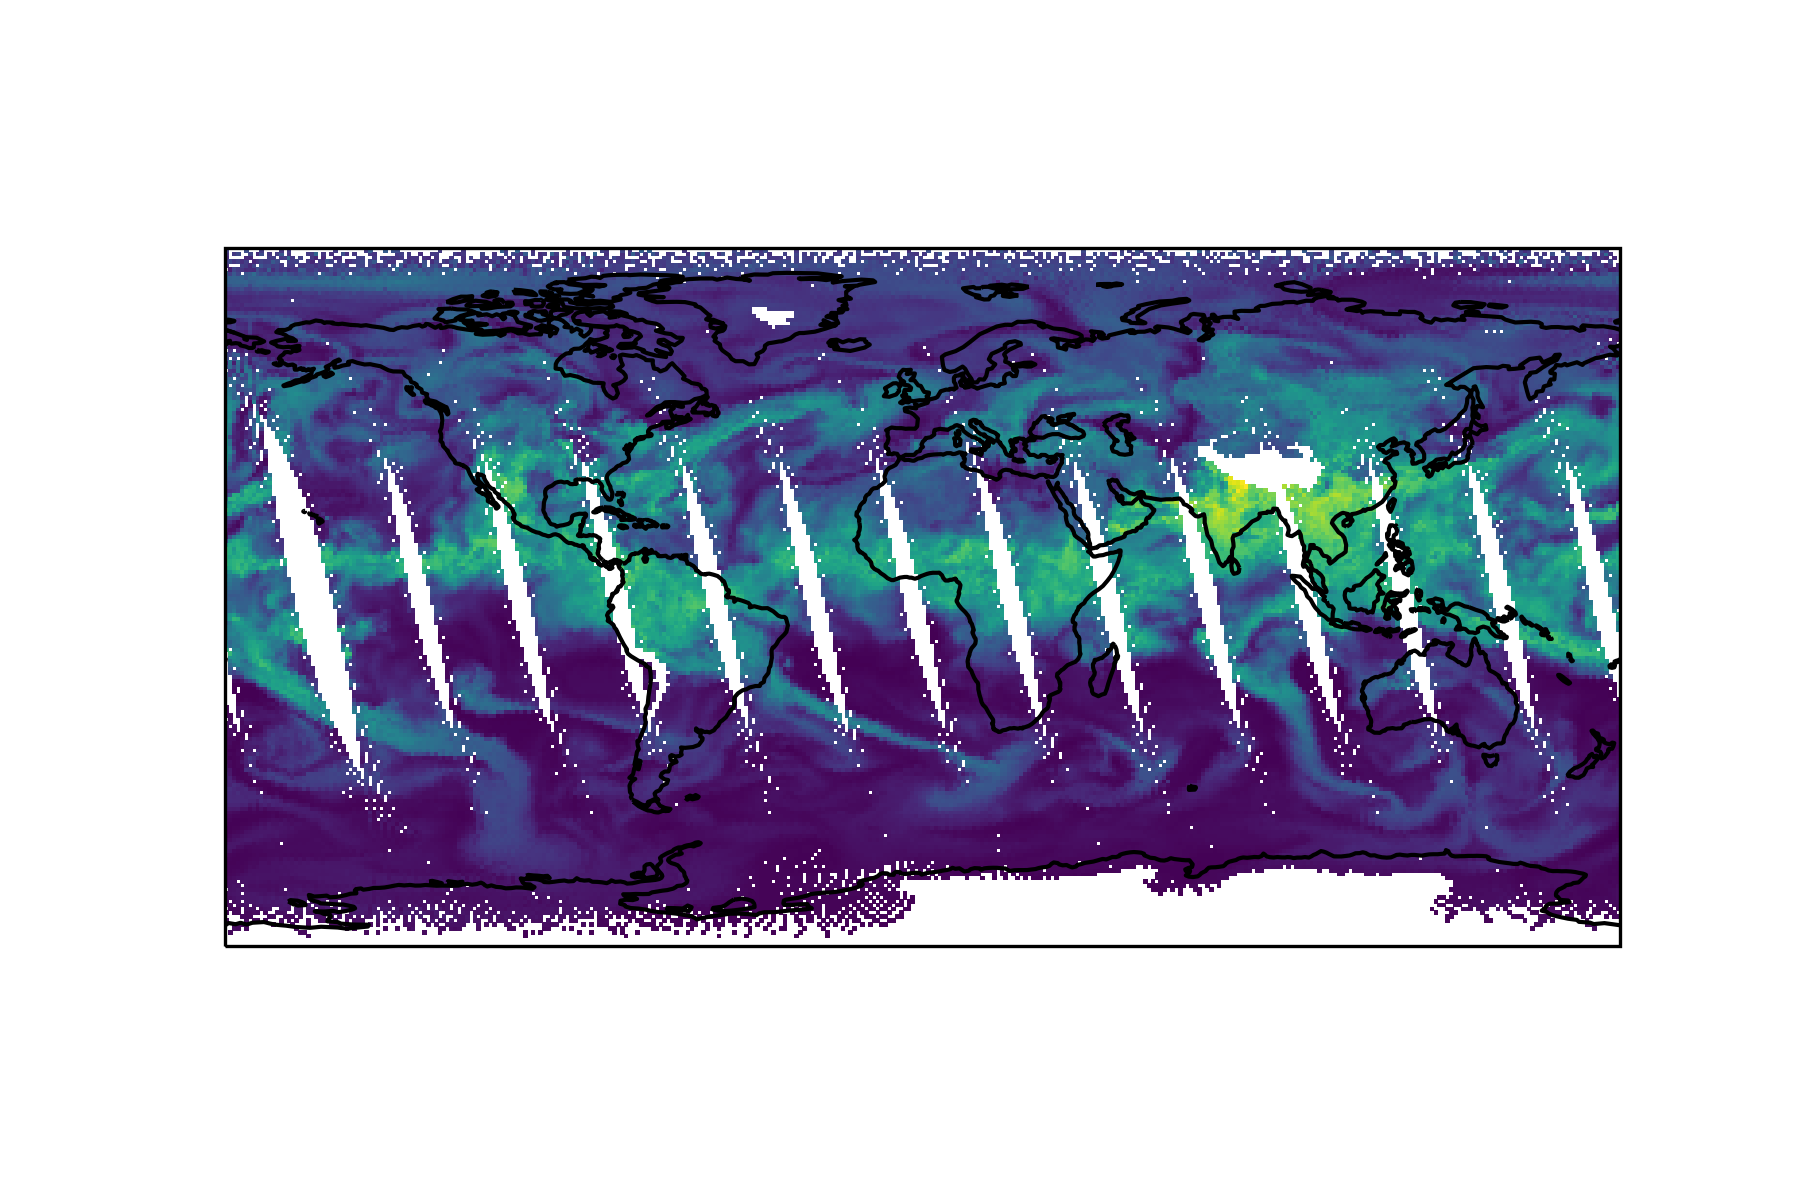
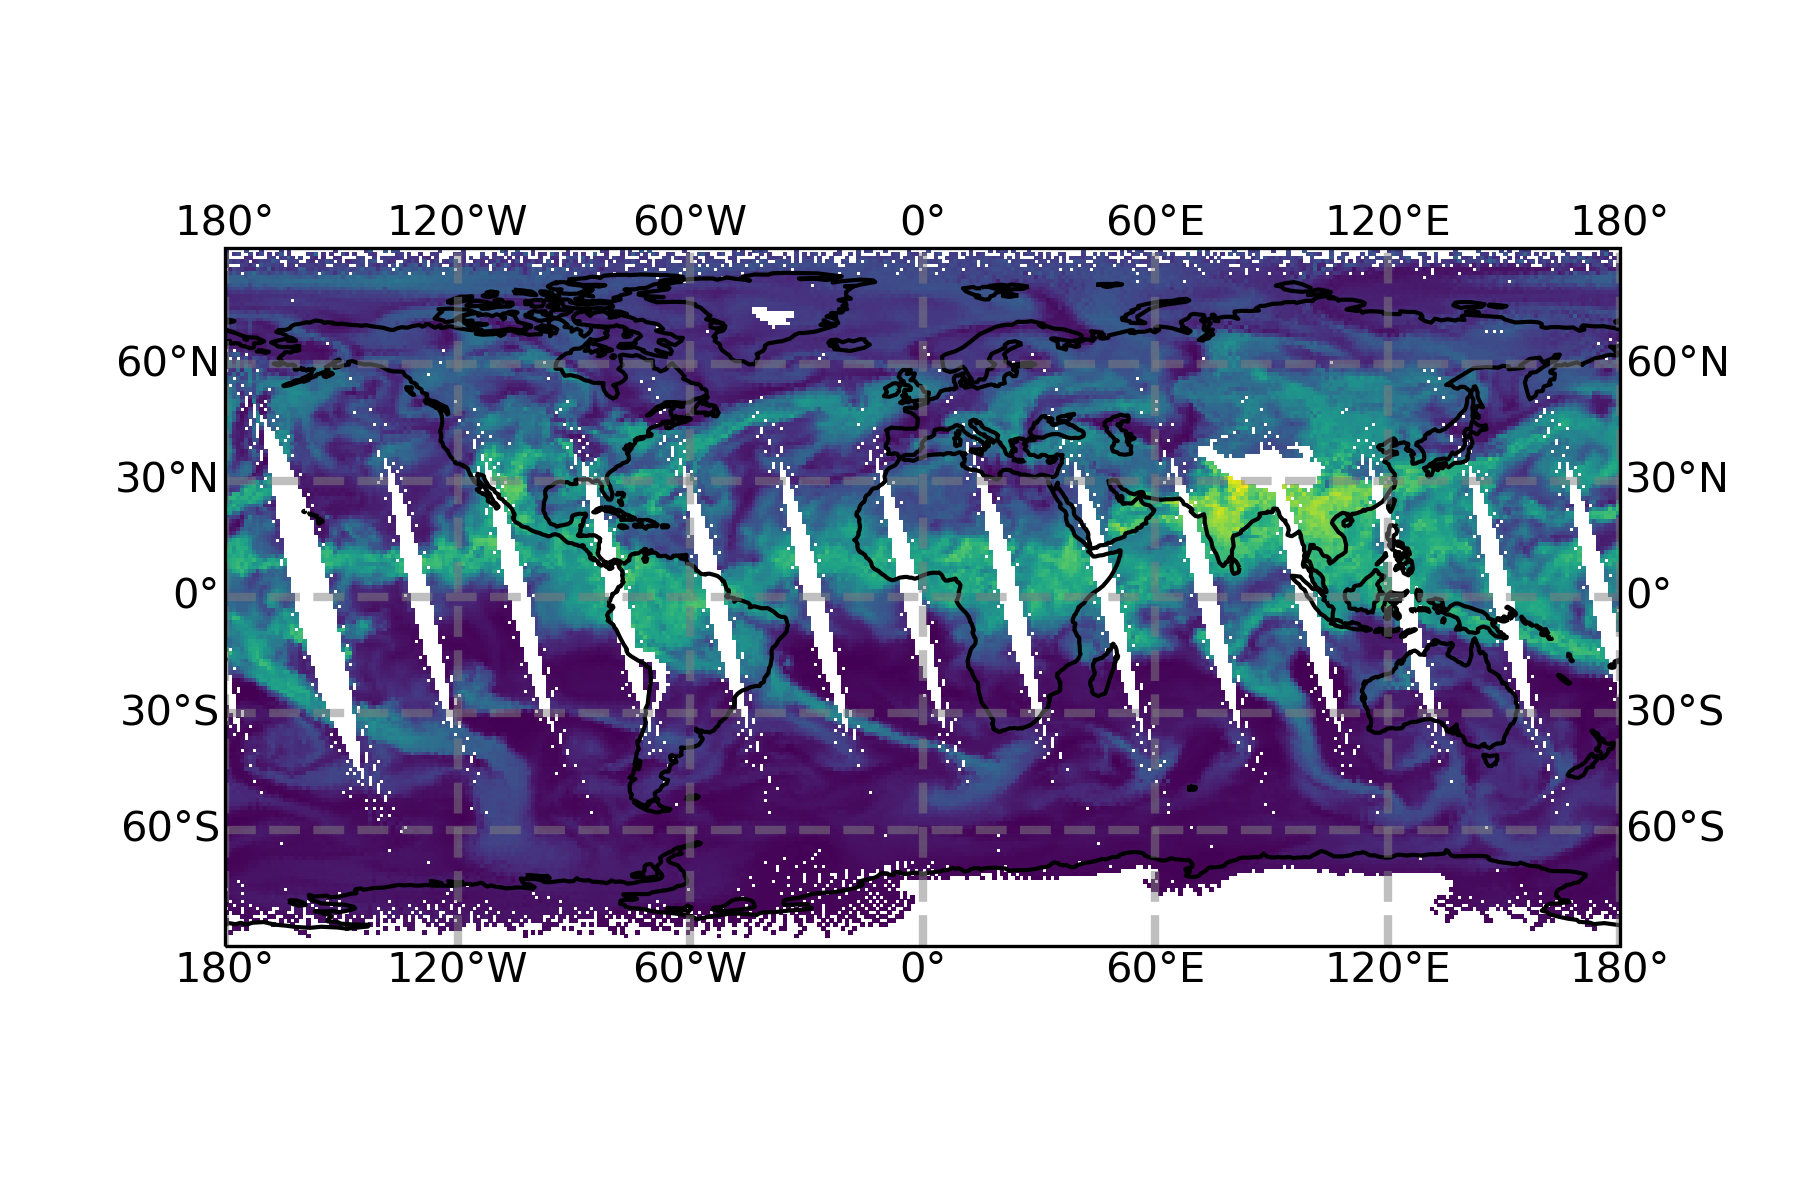
created pipeline

diff --git a/src/first_stage_amv.py b/src/first_stage_amv.py
@@ -8,25 +8,13 @@ Created on Wed Mar 24 15:17:31 2021
 import cv2
 import xarray as xr
 import numpy as np
-label='specific_humidity_mu'
-def wind_calculator(ds):
-    flow_x=np.squeeze(ds['flow_x'].values)
-    flow_y=np.squeeze(ds['flow_y'].values)
-    lon,lat=np.meshgrid(ds['lon'].values,ds['lat'].values)
-    dthetax = GRID*flow_x
-    dradsx = dthetax * np.pi / 180
-    lat = lat*np.pi/180
-    dx = R*abs(np.cos(lat))*dradsx
-    u= dx/1800
-    
-    dthetay =GRID*flow_y
-    dradsy = dthetay * np.pi / 180
-    dy = R*dradsy
-    v= dy/1800
-    
-    ds['u']=(('time','lat','lon'),np.expand_dims(u,axis=0))
-    ds['v']=(('time','lat','lon'),np.expand_dims(v,axis=0))
-    return ds
+import metpy.calc as mpcalc
+from metpy.units import units
+R = 6371000
+dt_inv=1/3600
+
+label='specific_humidity_mean'
+
 
 
 def calc(frame0, frame):
@@ -46,26 +34,57 @@ def frame_retreiver(ds, satellite):
     frame[frame == 0] = np.nan
     return frame
     
- 
+def ds_unit_calc(ds, day,pressure, time):
+    ds_unit=ds.loc[{'day':day ,'plev':pressure,'time':time}]
+    frame0=frame_retreiver(ds_unit,'snpp')
+    frame=frame_retreiver(ds_unit, 'j1')
+    flowx,flowy=calc(frame0, frame)
+    ds_unit['flowx']=(['latitude','longitude'],flowx)
+    ds_unit['flowy']=(['latitude','longitude'],flowy)
+    ds_unit['u']=ds_unit['flowx']*ds_unit['g_factor_x']
+    ds_unit['v']=ds_unit['flowy']*ds_unit['g_factor_y']
+    return ds_unit
 def main():
-    ds=xr.open_dataset('../data/processed/real_water_vapor_inpainted.nc')
-    ds=ds.loc[{'lat':slice(-50,50)}].copy()
+    ds=xr.open_dataset('../data/processed/real_water_vapor_noqc_inpainted.nc')
+    drad = np.deg2rad(1)
+    dx = R*abs(np.cos(np.deg2rad(ds.latitude)))*drad
+    scale_x = dx*dt_inv
+    dy = R*drad
+    scale_y = dy*dt_inv
+    ds['g_factor_x']=  scale_x 
+    ds['g_factor_y']=  scale_y 
+    
     print(ds)
+    ds_total=xr.Dataset()
     for day in ds['day'].values:
         print(day)
-        for pressure in ds['pressure'].values:
-            print(pressure)
+ 
+        ds_unit=xr.Dataset()
+        for pressure in ds['plev'].values:
+            ds_unit1=xr.Dataset()
             for time in ds['time'].values:
-                ds_unit=ds.loc[{'day':day ,'pressure':pressure,'time':time}]
-                frame0=frame_retreiver(ds_unit,'snpp')
-                frame=frame_retreiver(ds_unit, 'j1')
-                flowx,flowy=calc(frame0, frame)
-                breakpoint()
-                ds_unit['flowx']=flowx
+                
+                ds_unit0=ds_unit_calc(ds, day,pressure, time)
+                ds_unit0 = ds_unit0.expand_dims('day').assign_coords(day=np.array([day]))
+                ds_unit0 = ds_unit0.expand_dims('time').assign_coords(time=np.array([time]))
+                ds_unit0 = ds_unit0.expand_dims('plev').assign_coords(plev=np.array([pressure]))
+                
+                if not ds_unit1:
+                    ds_unit1=ds_unit0
+                else:
+                    ds_unit1=xr.concat([ds_unit1,ds_unit0],'time')
+            if not ds_unit:
+                ds_unit=ds_unit1
+            else:
+                ds_unit=xr.concat([ds_unit,ds_unit1], 'plev') 
+        if not ds_total:
+            ds_total=ds_unit
+        else:
+            ds_total=xr.concat([ds_total,ds_unit], 'day')
+    print(ds_total)
         
-                #ds[label].loc[{'day':day ,'pressure':pressure,
-                 #            'satellite':satellite,'time':time}]=frame
-    #ds.to_netcdf('../data/processed/real_water_vapor_amvs.nc')
+        
+    ds_total.to_netcdf('../data/processed/real_water_vapor_noqc_amvs.nc')
 
 if __name__ == '__main__':
     main()

diff --git a/src/formatter.py b/src/formatter.py
@@ -48,27 +48,24 @@ def ds_unit_calc(day,time,satellite):
     
     ds=xr.open_dataset(PATH+ 'climcaps_'+ day_string+'_'+time+'_'+satellite+'_gridded_specific_humidity_1deg_noqc.nc')
     
-    ds=regridder(ds)   
+    #ds=regridder(ds)   
     
-    
-   # ds['Lat']=ds['Lat']+ds['latitude'].min()
-   # ds['Lat']=ds['Lat'].astype(np.float32)
-   # ds['Lon']=ds['Lon']+ds['longitude'].min()
-   # ds['Lon']=ds['Lon'].astype(np.float32)
+    df=ds.to_dataframe()
+    df=df.reset_index()
+    df=df.set_index(['latitude','longitude','plev'])
+    ds=xr.Dataset.from_dataframe(df)   
+    ds=ds.reindex(latitude=list(reversed(ds.latitude)))
     ds['plev']=np.around(np.sort(np.unique(ds['pressure'].values)),decimals=1)
-    #ds=ds.drop('lat')
-    #ds=ds.drop('lon')
+    ds=ds.drop('Lat')
+    ds=ds.drop('Lon')
     ds=ds.drop('pressure')
-    #dts=ds['obs_time'].values
-    
-    #mask=np.isnan(dts)
-    #dts=np.nan_to_num(dts)
-    #helper = np.vectorize(lambda x: d0 + timedelta(seconds=x))
-    #dt_sec=helper(dts)
-    #dt_sec[mask]=np.nan
-    
-    
-    #ds['obs_time']=(['Lon','Lat'],dt_sec)
+    dts=ds['obs_time'].values
+    mask=np.isnan(dts)
+    dts=np.nan_to_num(dts)
+    helper = np.vectorize(lambda x: d0 + timedelta(seconds=x))
+    dt_sec=helper(dts)
+    dt_sec[mask]=np.nan
+    ds['obs_time']=(['latitude','longitude','plev'],dt_sec)
     
     #ds=ds.rename({'Lat':'lat','Lon':'lon','plev':'pressure'})
     ds = ds.expand_dims('day').assign_coords(day=np.array([day]))
@@ -101,9 +98,8 @@ def time_loop(times, satellites, day):
 def main():
     times=['am','pm']
     satellites=['j1','snpp']
-       # days=[datetime(2020,1,1),datetime(2020,1,2),
-    #  datetime(2020,7,1),datetime(2020,7,3)]
-    days=[datetime(2020,7,3)]
+    days=[datetime(2020,1,1),datetime(2020,1,2),
+    datetime(2020,7,1),datetime(2020,7,3)]
 
     ds_total=xr.Dataset() 
     for day in days:    

diff --git a/src/inpainter.py b/src/inpainter.py
@@ -17,24 +17,23 @@ def drop_nan(frame):
     return frame
 
 def main():
-    label='specific_humidity_mu'
-    ds=xr.open_dataset('../data/processed/real_water_vapor.nc')
+    label='specific_humidity_mean'
+    ds=xr.open_dataset('../data/processed/real_water_vapor_noqc.nc')
     print(ds)
     for day in ds['day'].values:
         print(day)
-        for pressure in ds['pressure'].values:
+        for pressure in ds['plev'].values:
             print(pressure)
             for satellite in ds['satellite'].values:
                 for time in ds['time'].values:
-                    frame= ds[label].loc[{'day':day ,'pressure':pressure,
+                    frame= ds[label].loc[{'day':day ,'plev':pressure,
                                           'satellite':satellite,'time':time}].values       
                     frame = np.squeeze(frame)
                     frame[frame == 0] = np.nan
                     frame=drop_nan(frame)
-                    breakpoint()
-                    ds[label].loc[{'day':day ,'pressure':pressure,
+                    ds[label].loc[{'day':day ,'plev':pressure,
                              'satellite':satellite,'time':time}]=frame
-    ds.to_netcdf('../data/processed/real_water_vapor_inpainted.nc')
+    ds.to_netcdf('../data/processed/real_water_vapor_noqc_inpainted.nc')
 
 
 

diff --git a/data/raw/CLIMCAPS_winds/nadia.py b/data/raw/CLIMCAPS_winds/nadia.py
@@ -18,6 +18,7 @@ df=ds[['specific_humidity_mean','longitude','latitude']].to_dataframe()
 df=df.reset_index()
 df=df.set_index(['longitude','latitude','plev'])
 ds=xr.Dataset.from_dataframe(df)
+ds
 #df=df.reset_index(drop=True).set_index(['latitude','longitude'])
 #print(df)
 fig, ax = plt.subplots()
@@ -26,17 +27,24 @@ fig, ax = plt.subplots()
 proj=ccrs.PlateCarree()
 ax = plt.axes(projection=proj)
 ax.set_global()
-#gl = ax.gridlines(crs=proj, draw_labels=True,
- #                 linewidth=2, color='gray', alpha=0.5, linestyle='--')
+gl = ax.gridlines(crs=proj, draw_labels=True,
+                  linewidth=2, color='gray', alpha=0.5, linestyle='--')
 
-lat=ds['latitude'].values
-lon=ds['longitude'].values
 ds_unit=ds['specific_humidity_mean'].loc[{'plev':41}]
+ds_unit=ds_unit.transpose('latitude','longitude')
+ds_unit=ds_unit.reindex(latitude=list(reversed(ds_unit.latitude)))
+lat=ds_unit['latitude'].values
+lon=ds_unit['longitude'].values
+
+print(ds_unit)
 print(lon)                            
 var=np.squeeze(ds_unit.values)
-lat,lon=np.meshgrid(lat,lon)
+lon,lat=np.meshgrid(lon,lat)
 ax.pcolormesh(lon, lat, var,cmap='viridis',transform=proj)
 ax.coastlines()
 plt.savefig('test.png',dpi=300)
 plt.show()
+plt.close()
+var=np.squeeze(ds_unit.values)
+plt.imshow(var, cmap='viridis')
 

diff --git a/src/plotter.py b/src/plotter.py
@@ -17,12 +17,8 @@ def map_plotter(ds, title, label, units_label, vmin, vmax):
     values[values == 0] = np.nan
     #values=values[:50,:]
     fig, ax = plt.subplots()
-    if vmin == vmax:
-        im = ax.imshow(values, cmap='viridis')
-        #im = ax.imshow(values, cmap='viridis')
-    else:
-        im = ax.imshow(values, cmap='viridis', extent=[ds['lon'].min(
-        ), ds['lon'].max(), ds['lat'].min(), ds['lat'].max()], vmin=vmin, vmax=vmax)
+    im = ax.imshow(values, cmap='viridis', extent=[ds['longitude'].min(
+        ), ds['longitude'].max(), ds['latitude'].min(), ds['latitude'].max()])
     cbar = fig.colorbar(im, ax=ax, fraction=0.025, pad=0.04)
     cbar.set_label(units_label)
     plt.xlabel("lon")
@@ -34,7 +30,7 @@ def map_plotter(ds, title, label, units_label, vmin, vmax):
     
     
 def main():
-    ds=xr.open_dataset('../data/processed/real_water_vapor_noqc.nc')
+    ds=xr.open_dataset('../data/processed/real_water_vapor_noqc_inpainted.nc')
     print(ds)
     #print(ds)
     ds_map=ds.loc[{'day':datetime(2020,7,3),'plev':706.6,'satellite':'snpp','time':'pm'}]
